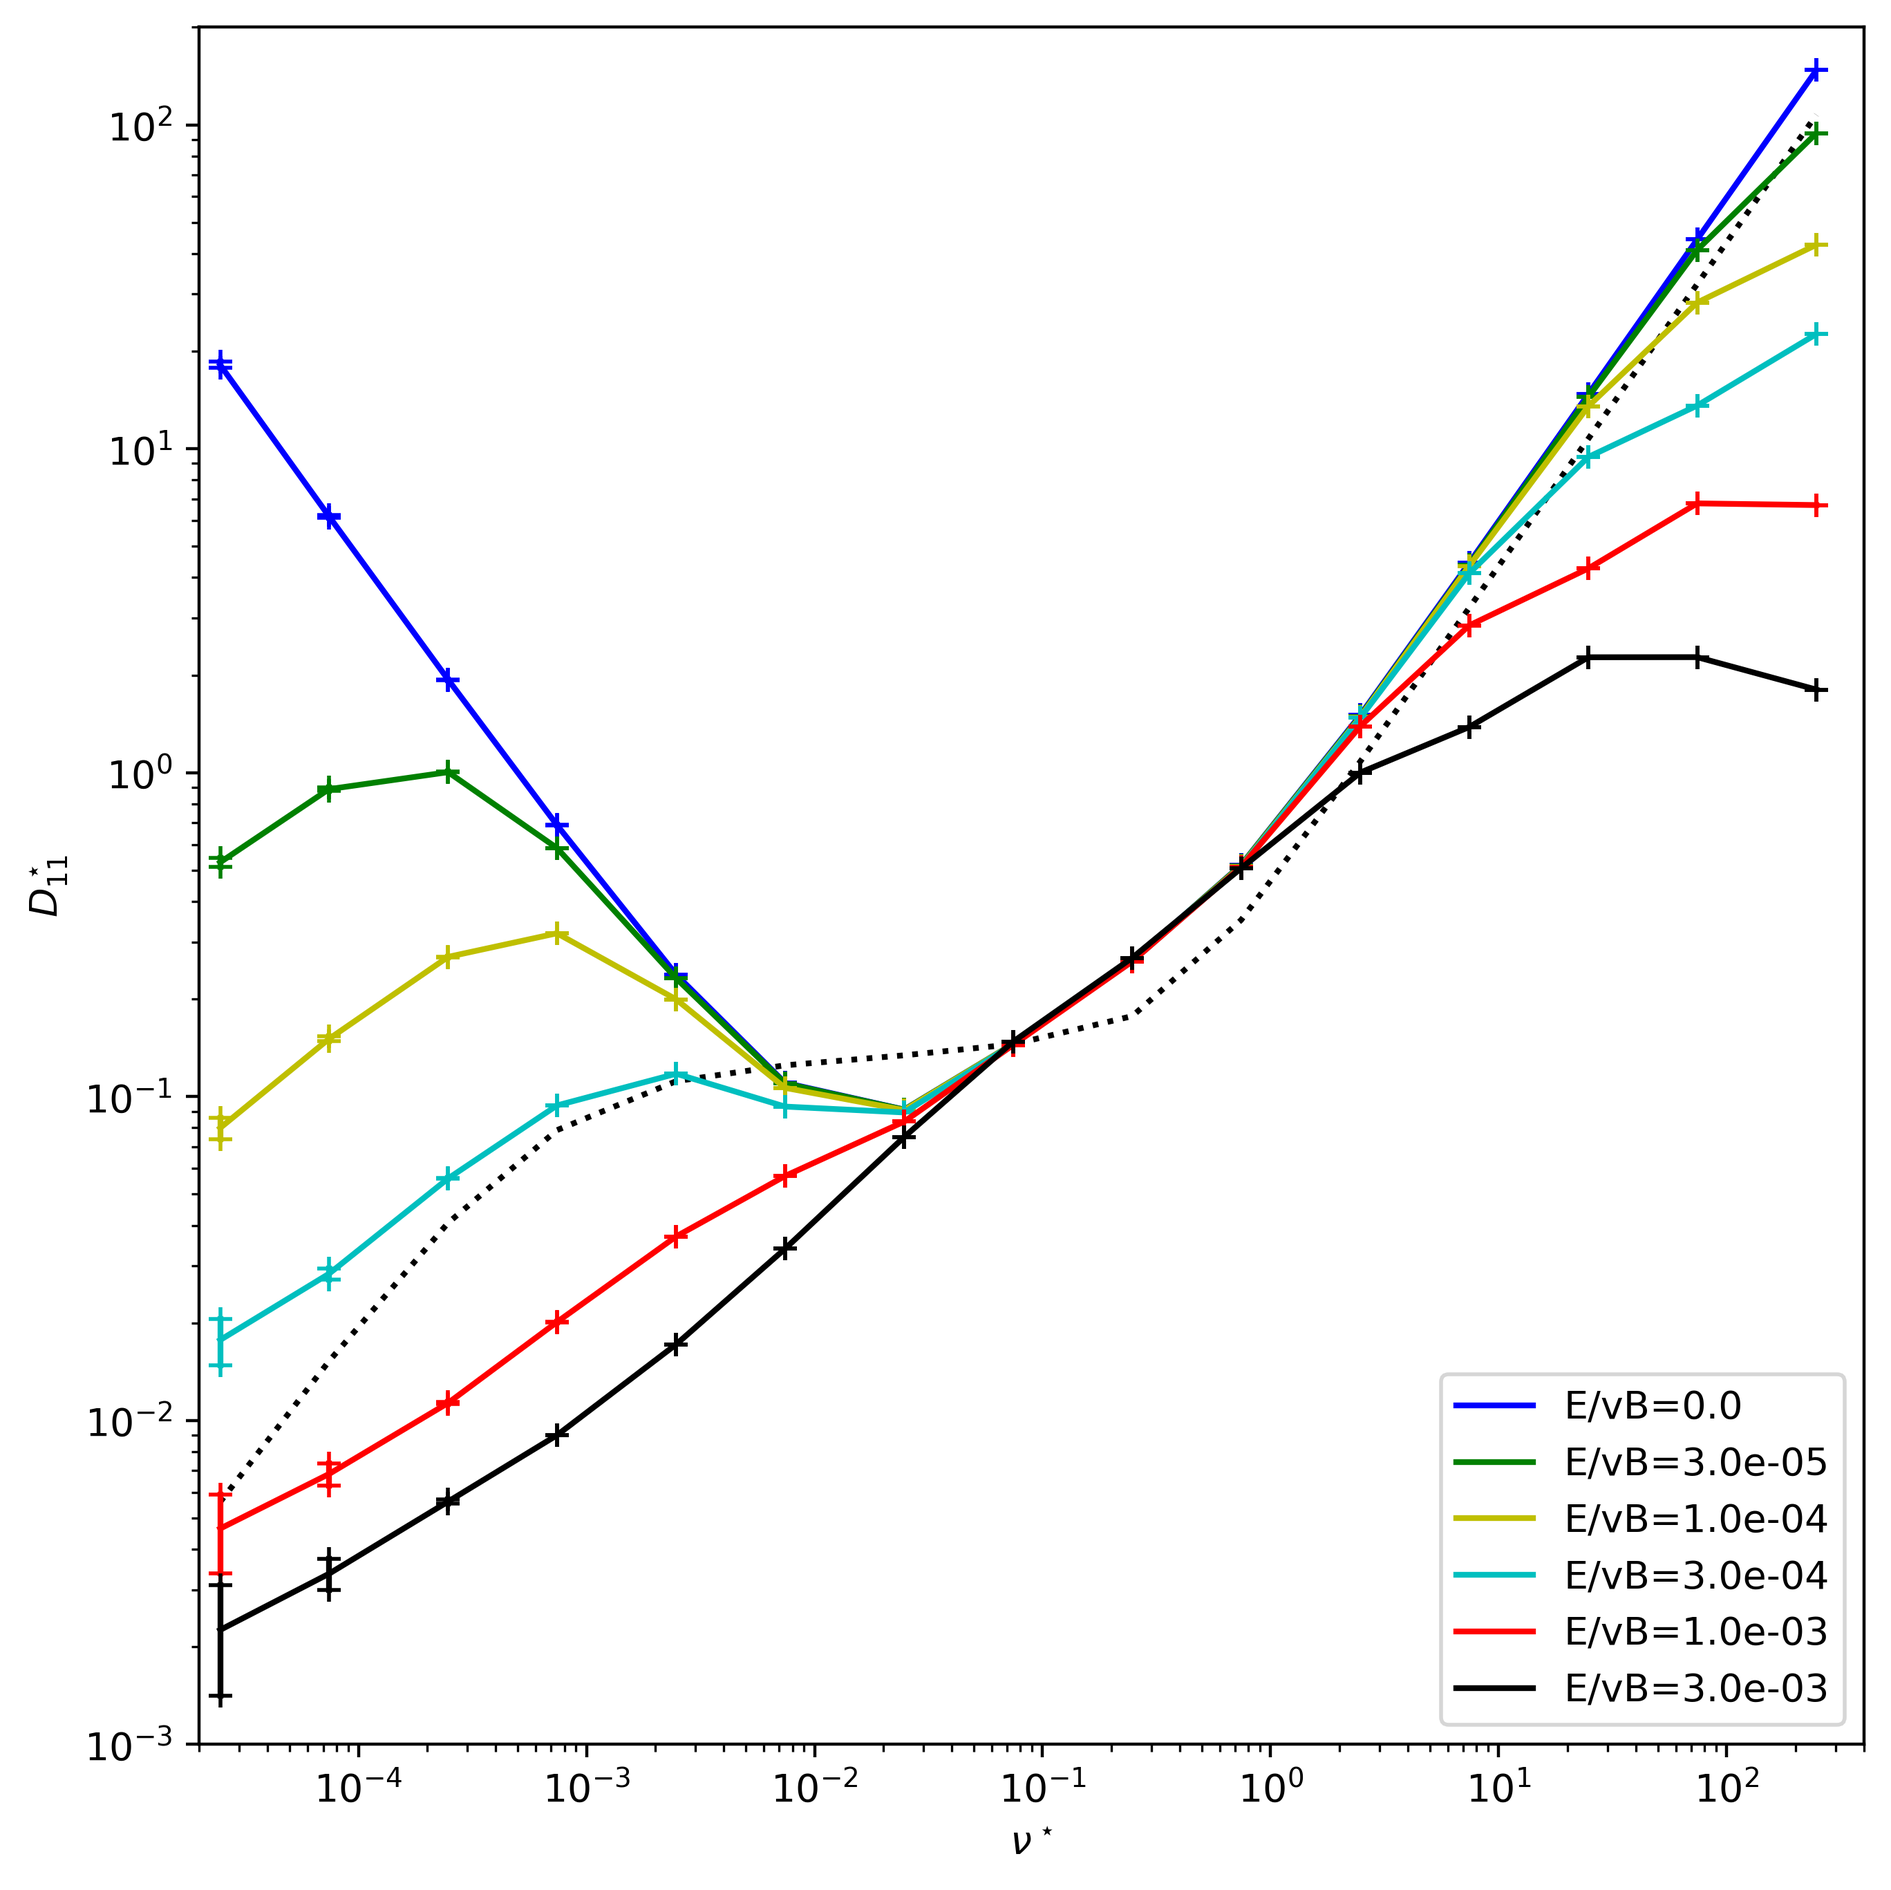
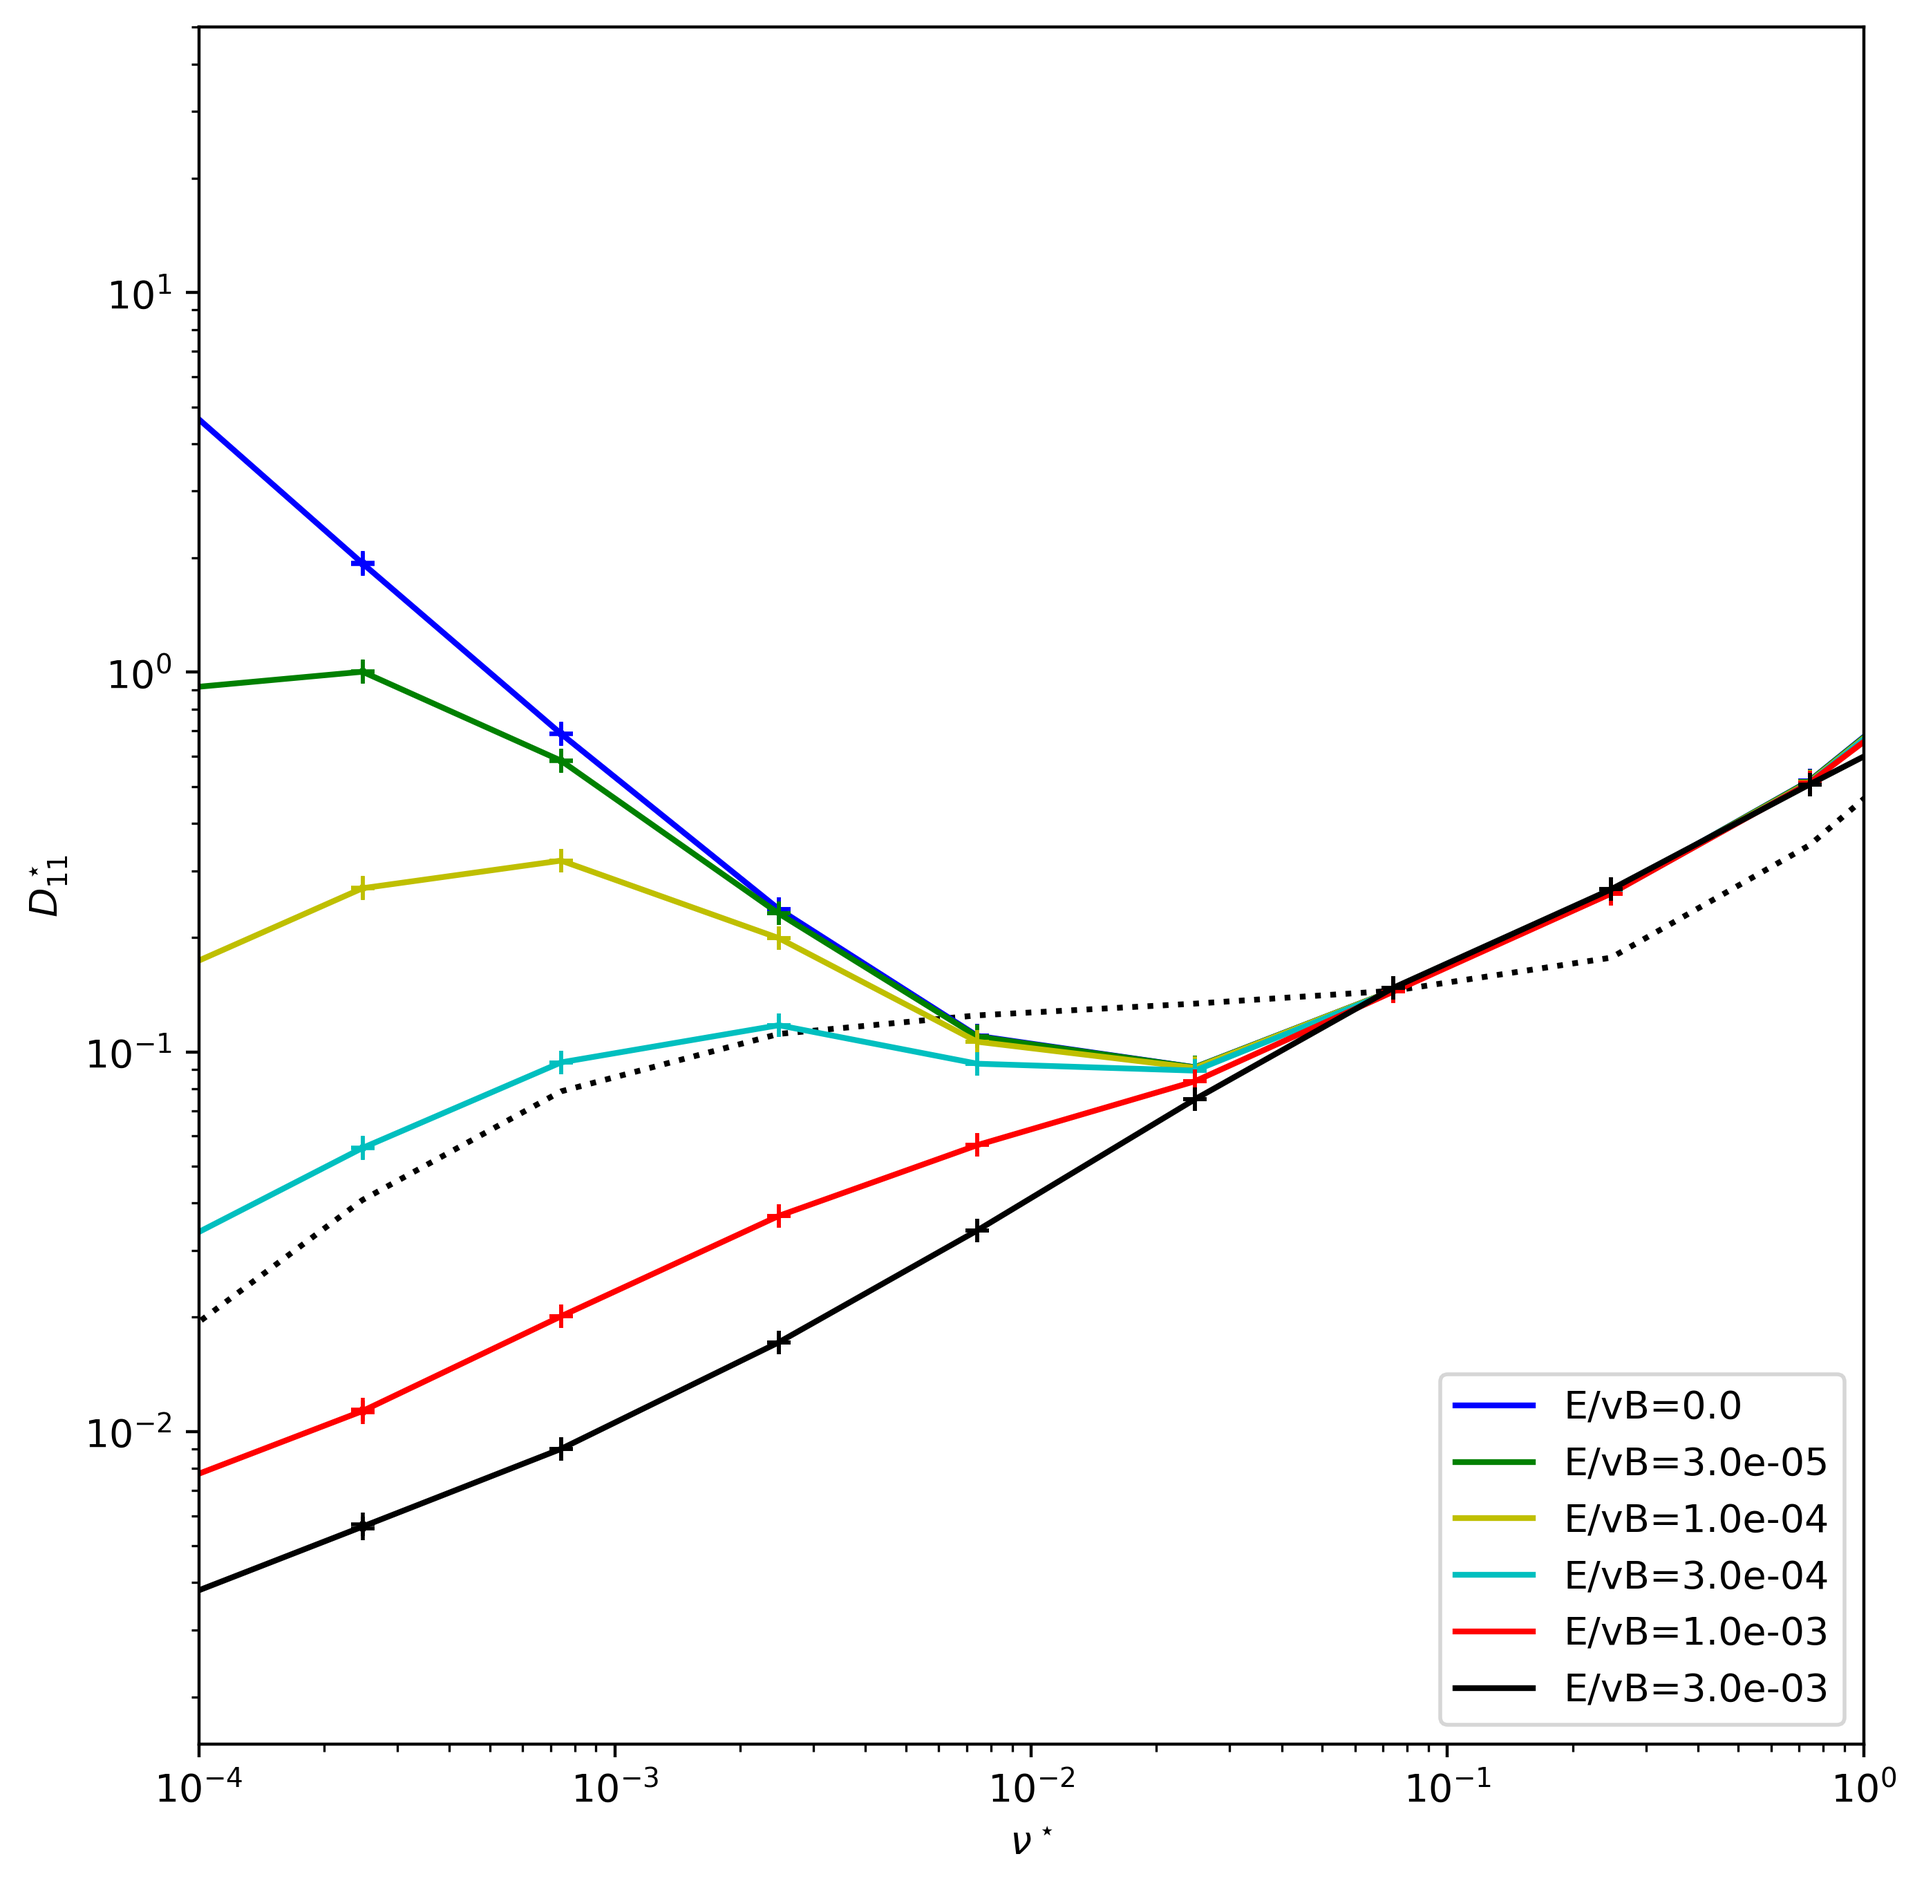
Changed bounds on D11* plots

diff --git a/eRootProject/DKESstuff/plot_transpcoeffs.py b/eRootProject/DKESstuff/plot_transpcoeffs.py
@@ -3,10 +3,10 @@
 # This script was originally written by Hakan Smith.
 
 # Inputs
-lowerXLim = 2e-5
-upperXLim = 4e2
-lowerYLim = 1e-3
-upperYLim = 2e2
+lowerXLim = 1.0e-4
+upperXLim = 1.0e0
+lowerYLim = 1.5e-3
+upperYLim = 5.0e1
 fileExt = 'png'
 
 # Code
